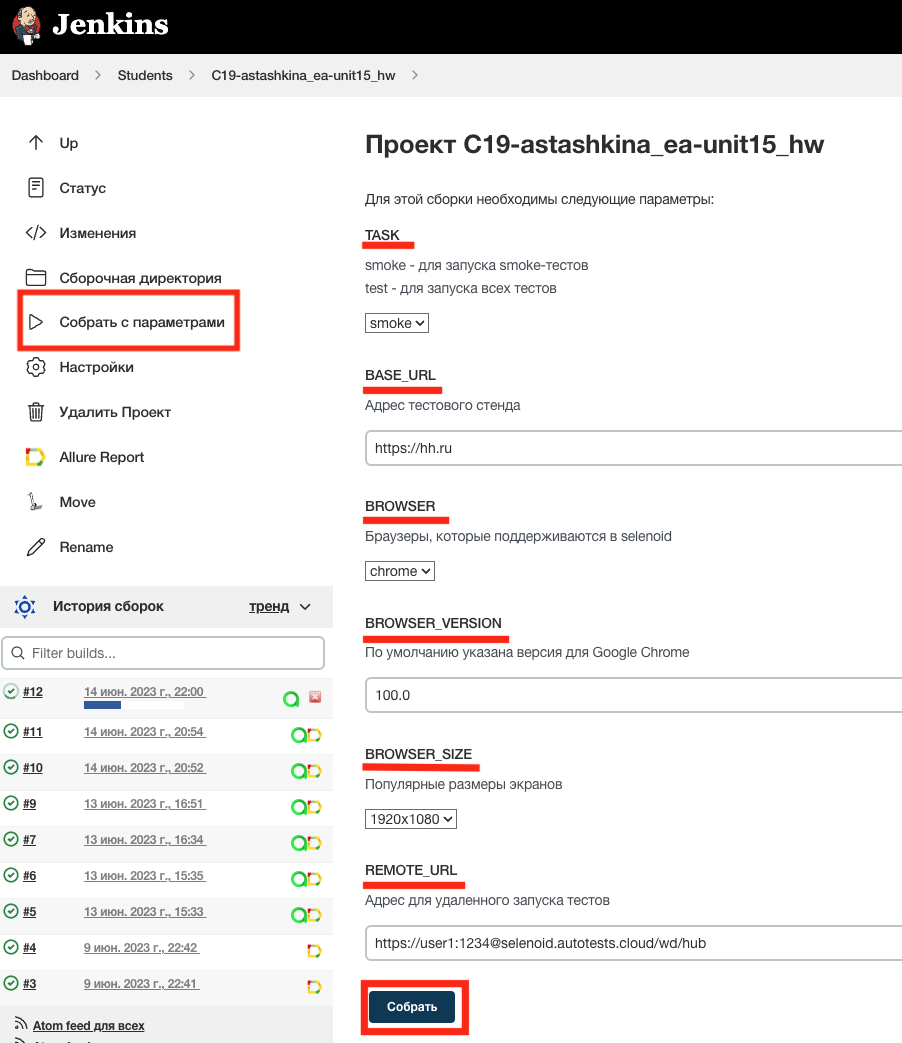
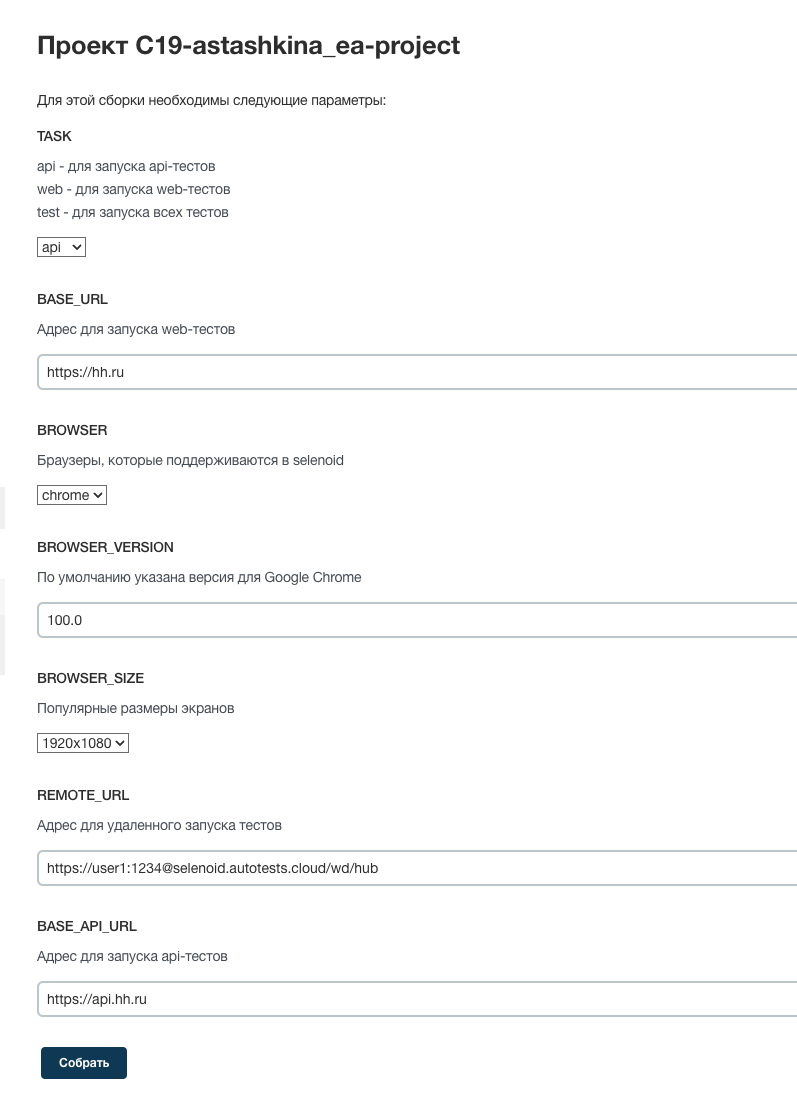
fixed readme

diff --git a/src/test/java/ru/hh/api/tests/GetVacanciesTests.java b/src/test/java/ru/hh/api/tests/GetVacanciesTests.java
@@ -33,11 +33,11 @@ public class GetVacanciesTests {
         Map<String, String> queryParam = new HashMap<>();
         queryParam.put("area", area.getId());
 
-        VacanciesModel vacanciesModel = step("Выполнить вызов метода на получение вакансий по региону " + area.getId(), () ->
+        VacanciesModel vacanciesModel = step("Выполнить вызов метода на получение вакансий по региону " + area.getName(), () ->
                 getVacancies(queryParam));
 
         List<ItemsVacanciesModel> vacancies = vacanciesModel.getItems();
-        step("Проверить, что в каждой вакансии отображается возвращается переданный регион " + area.getId(), () -> {
+        step("Проверить, что в каждой вакансии отображается возвращается переданный регион " + area.getName(), () -> {
             for (ItemsVacanciesModel vacancy : vacancies) {
                 assertAll(
                         () -> assertEquals(area.getId(), vacancy.getArea().getId()),
@@ -63,7 +63,7 @@ public class GetVacanciesTests {
                 getVacancies(queryParam));
 
         List<ItemsVacanciesModel> vacancies = vacanciesModel.getItems();
-        step("Проверить, что в каждой вакансии отображается возвращается переданная занятость" + employment.getName(), () -> {
+        step("Проверить, что в каждой вакансии отображается возвращается переданная занятость " + employment.getName(), () -> {
             for (ItemsVacanciesModel vacancy : vacancies) {
                 assertAll(
                         () -> assertEquals(employment.getId(), vacancy.getEmployment().getId()),

diff --git a/src/test/java/ru/hh/api/tests/DeleteFavoritedVacancyTests.java b/src/test/java/ru/hh/api/tests/DeleteFavoritedVacancyTests.java
@@ -21,7 +21,7 @@ public class DeleteFavoritedVacancyTests {
         String idVacancy = String.format("%d", getRandomBetweenNumber(1, 100000));
 
         ForbbidenErrorModel forbbidenErrorModel = step("Выполнить вызов метода на удаление вакансии", () -> deleteFavoritedVacancyWithForbbidenError(idVacancy));
-        step("Проверить, что возврращается тело ответа с ошибкой типа forbidden", () -> {
+        step("Проверить, что возвращается тело ответа с ошибкой типа forbidden", () -> {
             assertAll(
                     () -> assertEquals(TypeErrors.FORBIDDEN.getText(), forbbidenErrorModel.getErrors().get(0).getType()),
                     () -> assertTrue(!forbbidenErrorModel.getIdRequest().isEmpty())

diff --git a/src/test/java/ru/hh/api/tests/PostNegotiationsTests.java b/src/test/java/ru/hh/api/tests/PostNegotiationsTests.java
@@ -27,7 +27,7 @@ public class PostNegotiationsTests {
         requestBody.setMessage(getRandomText());
 
         ForbbidenErrorModel forbbidenErrorModel = step("Выполнить вызов метода на отклик на определенную вакансию", () -> postNegotiationsWithForbbidenError(requestBody));
-        step("Проверить, что возврращается тело ответа с ошибкой типа forbidden", () -> {
+        step("Проверить, что возвращается тело ответа с ошибкой типа forbidden", () -> {
             assertAll(
                     () -> assertEquals(TypeErrors.FORBIDDEN.getText(), forbbidenErrorModel.getErrors().get(0).getType()),
                     () -> assertNotNull(forbbidenErrorModel.getIdRequest())

diff --git a/README.md b/README.md
@@ -19,18 +19,20 @@ ___
 
 ## :computer: Используемый стек
 
-| <a href="https://www.jetbrains.com/idea/"><img src="media/logo/Intelij_IDEA.svg" width="40" height="40"  alt="IDEA"/></a> | <a href="https://www.jetbrains.com/idea/"><img src="media/logo/Java.svg" width="40" height="40"  alt="Java"/></a> | <a href="https://www.jetbrains.com/idea/"><img src="media/logo/JUnit5.svg" width="40" height="40"  alt="JUnit 5"/></a> |                      <a href="https://www.jetbrains.com/idea/"><img src="media/logo/Gradle.svg" width="40" height="40"  alt="Gradle"/></a>                      | <a href="https://www.jetbrains.com/idea/"><img src="media/logo/Selenide.svg" width="40" height="40"  alt="Selenide"/></a> |
-|:-------------------------------------------------------------------------------------------------------------------------:|:-----------------------------------------------------------------------------------------------------------------:|:----------------------------------------------------------------------------------------------------------------------:|:----------------------------------------------------------------------------------------------------------------------------------------------------:|:---------------------------------------------------------------------------------------------------------------------------------------------------------:|
-|                                                           IDEA                                                            |                                                       Java                                                        |                                                         Junit5                                                         |                                                                        Gradle                                                                        |                                                                         Selenide                                                                          |
+| <a href="https://www.jetbrains.com/idea/"><img src="media/logo/Intelij_IDEA.svg" width="40" height="40"  alt="IDEA"/></a> | <a href="https://www.java.com/"><img src="media/logo/Java.svg" width="40" height="40"  alt="Java"/></a> | <a href="https://junit.org/"><img src="media/logo/JUnit5.svg" width="40" height="40"  alt="JUnit 5"/></a> |                      <a href="https://gradle.org/"><img src="media/logo/Gradle.svg" width="40" height="40"  alt="Gradle"/></a>                      | <a href="https://selenide.org/"><img src="media/logo/Selenide.svg" width="40" height="40"  alt="Selenide"/></a> | <a href="https://rest-assured.io/"><img src="media/logo/RestAssured.svg" width="40" height="40"  alt="Selenide"/></a> |
+|:-------------------------------------------------------------------------------------------------------------------------:|:-----------------------------------------------------------------------------------------------------------------:|:----------------------------------------------------------------------------------------------------------------------:|:----------------------------------------------------------------------------------------------------------------------------------------------------:|:---------------------------------------------------------------------------------------------------------------------------------------------------------:|:---------------------------------------------------------------------------------------------------------------------:|
+|                                                           IDEA                                                            |                                                       Java                                                        |                                                         Junit5                                                         |                                                                        Gradle                                                                        |                                                                         Selenide                                                                          |                                                     Rest-assured                                                      |
 
 | <a href="https://www.jetbrains.com/idea/"><img src="media/logo//Selenoid.svg" width="40" height="40"  alt="Selenoid"/></a> |                <a href="https://www.jetbrains.com/idea/"><img src="media/logo/Allure_Report.svg" width="40" height="40"  alt="Allure"/></a>                 | <a href="https://www.jetbrains.com/idea/"><img src="media/logo/AllureTestOps.svg" width="40" height="40"  alt="Allure TestOps"/></a> | <a href="https://www.jetbrains.com/idea/"><img src="media/logo/Jenkins.svg" width="40" height="40"  alt="Jenkins"/></a> | <a href="https://www.jetbrains.com/idea/"><img src="media/logo/GitHub.svg" width="40" height="40"  alt="Github"/></a> | <a href="https://www.jetbrains.com/idea/"><img src="media/logo/Jira.svg" width="40" height="40"  alt="Jira"/></a> |
 |:---------------------------------------------------------------------------------------------------------------------------------------------------------:|:-----------------------------------------------------------------------------------------------------------------------------------------------------------:|:------------------------------------------------------------------------------------------------------------------------------------:|:-----------------------------------------------------------------------------------------------------------------------:|:---------------------------------------------------------------------------------------------------------------------:|:-------------------------------------------------------------------------------------------------------------------------------------------------:|
 |                                                                         Selenoid                                                                          |                                                                           Allure                                                                            |                                                              Allure TO                                                               |                                                         Jenkins                                                         |                                                        Github                                                         |                                                                       Jira                                                                        |
 
-- Тесты в данном проекте написаны на языке <code>Java</code> с использованием фреймворка для тестирования <code>Selenide</code> в среде разработки <code>IDEA</code>
+- Тесты в данном проекте написаны на языке <code>Java</code> и разработаны в среде разработки <code>IDEA</code>
+- Для UI тестов при написании использовалcя фреймворка для тестирования <code>Selenide</code> 
+- При прогоне тестов браузер запускается в <code>Selenoid</code>
+- Для API тестов при написании использовалась библиотеке для тестирования <code>Rest-assured</code>
 - В качестве сборщика был использован - <code>Gradle</code>
 - <code>JUnit 5</code> задействован в качестве фреймворка модульного тестирования
-- При прогоне тестов браузер запускается в <code>Selenoid</code>
 - Для удаленного запуска реализована джоба в <code>Jenkins</code> с формированием <code>Allure-отчета</code> и отправкой результатов в <code>Telegram</code> при помощи бота
 - Осуществлена интеграция с <code>Allure TestOps</code> и <code>Jira</code>
 
@@ -40,32 +42,42 @@ ___
 
 ### Web-тесты
 :white_check_mark: Авторизация по почте и паролю  <br />
-:white_check_mark: Отображение региона в результатах поиска вакансий при фильтрации по региону  (параметризованный тест)<br />
+:white_check_mark: Переход на страницу регистрации  <br />
+:white_check_mark: Отображение региона в результатах поиска вакансий при фильтрации по региону (параметризованный тест)<br />
 :white_check_mark: Отображение специализаций для категории (параметризованный тест)<br />
-:white_check_mark: Проверка на странице результов поиска установленного чекбокса в блоке "График работы"  (параметризованный тест)<br />
-:white_check_mark: Проверка открытия и закрытия модалки региона
+:white_check_mark: Проверка на странице результов поиска установленного чекбокса в блоке "График работы" (параметризованный тест)<br />
+:white_check_mark: Отображение на странице фильтрации чекбоксов для блока "Тип занятости" (c зависимостью от API запроса)
+:white_check_mark: Проверка на странице результов поиска установленного чекбокса в блоке "Тип занятости" (параметризованный тест)<br />
+
+
+### Api-тесты
+:white_check_mark: Отсутствие доступа на отклик на определенную вакансию неавторизованным пользователем <br />
+:white_check_mark: Отсутствие доступа на удаление вакансии из списка отобранных неавторизованным пользователем <br />
+:white_check_mark: Поиск вакансий по рандомной занятости <br />
+:white_check_mark: Поиск вакансий по региону (параметризованный тест)<br />
+:white_check_mark: Проверка возвращаемых параметров в методе GET /employers<br />
 
 ___
 
 ## :arrow_forward: Локальный запуск автотестов
 
-### На локальном бразуере с параметрами сборки по умолчанию
+### Web-тесты на локальном бразуере с параметрами сборки по умолчанию
 
 ```
-gradle clean test
+gradle clean web
 ```
 
-### На локальном браузере с параметрами сборки из local.properties
+### Web-тесты на локальном браузере с параметрами сборки из local.properties
 
 ```
-gradle clean test -Denvironment='local'
+gradle clean web -Denvironment='local'
 ```
 
-### На локальном/удаленном браузере с указанием необходимых параметров сборки
+### Web-тесты на локальном/удаленном браузере с указанием необходимых параметров сборки
 
 ```
 gradle clean
-TASK
+web
 -DbaseUrl=BASE_URL
 -Dbrowser=BROWSER
 -DbrowserVersion=BROWSER_VERSION
@@ -76,7 +88,6 @@ TASK
 ```
 
 где:
->- <code>TASK</code> - название таски test или smoke
 >- <code>BASE_URL</code> - адрес тестового стенда (по умолчанию https://hh.ru)
 >- <code>BROWSER</code> - браузер, в котором будут выполняться тесты (по умолчанию chrome)
 >- <code>BROWSER_VERSION</code> - версия браузера (по умолчанию 100.0)
@@ -84,6 +95,29 @@ TASK
 >- <code>REMOTE_URL</code> - адрес для удаленного запуска тестов
 >- <code>LOGIN_ACCOUNT</code> - логин тестового аккаунта (по умолчанию в credentials.properties)
 >- <code>PASSWORD_ACCOUNT</code> - пароль тествого аккаунта (по умолчанию в credentials.properties)
+
+### Api-тесты с параметрами сборки по умолчанию
+
+```
+gradle clean api 
+```
+
+### Web-тесты на локальном/удаленном браузере с указанием необходимых параметров сборки
+
+```
+gradle clean
+TASK
+-DbaseApiUrl=BASE_API_URL
+```
+
+где:
+>- <code>BASE_API_URL</code> - адрес тестового стенда (по умолчанию https://api.hh.ru)
+
+### Запуск всех тестов
+
+```
+gradle clean test
+```
 
 ___
 
@@ -121,7 +155,13 @@ Report</code>, кликнув по которому, откроется стра
 - Логи браузерной консоли
 - Видео прогона автотестов
 
-![This is an image](/media/screens/Allure_Report_2.png)
+#### Web-тесты
+
+![This is an image](/media/screens/Allure_Report_2_1.png)
+
+#### Api-тесты
+
+![This is an image](/media/screens/Allure_Report_2_2.png)
 
 ----
 
@@ -129,15 +169,7 @@ Report</code>, кликнув по которому, откроется стра
 
 ### Dashboard с общими результатами тестирования
 
-![This is an image](/media/screens/Allure_TestOps_1.png)<br />
-
-### Общий список всех кейсов
-
-![This is an image](/media/screens/Allure_TestOps_2.png)<br />
-
-### Тест-планы проекта
-
-![This is an image](/media/screens/Allure_TestOps_3.png)<br />
+![This is an image](/media/screens/Allure_TestOps_1.png)
 
 ### Пример отчёта выполнения одного из автотестов
 Содержит в себе:
@@ -147,7 +179,18 @@ Report</code>, кликнув по которому, откроется стра
 - Логи браузерной консоли
 - Видео прогона автотестов
 
-![This is an image](/media/screens/Allure_TestOps_4.png)
+#### Web-тесты
+
+![This is an image](/media/screens/Allure_TestOps_2_1.png)
+
+#### Api-тесты
+
+![This is an image](/media/screens/Allure_TestOps_2_2.png)
+
+### Тест-планы проекта
+
+![This is an image](/media/screens/Allure_TestOps_3.png)
+
 
 ___
 
@@ -167,7 +210,13 @@ ___
 
 ### После завершения сборки, бот, созданный в <code>Telegram</code>, автоматически обрабатывает и отправляет сообщение с результатом
 
-![This is an image](/media/screens/Telegram.png)
+#### Web-тесты
+
+![This is an image](/media/screens/Telegram_2.png)
+
+#### Api-тесты
+
+![This is an image](/media/screens/Telegram_2.png)
 
 ___
 
@@ -175,6 +224,6 @@ ___
 
 ### Для всех тестов записано видео с прохождением тестов
 
-![This is an gif](/media/screens/selenoid.gif)
+![This is an gif](/media/screens/selenoid_1.gif)
 
 ---
